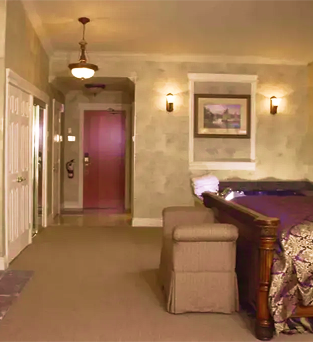
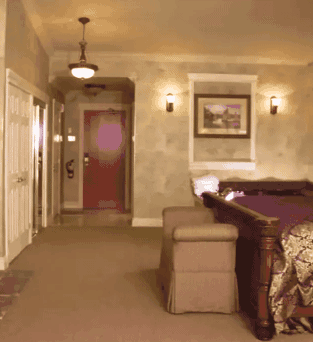
Added Compressed Images, Added Content
Added new compressed and resized images, added content to rooms-desk.html, styled header and list

diff --git a/rooms-desk.html b/rooms-desk.html
@@ -11,13 +11,89 @@
     <title>Welcome to The Couples Resort</title>
 </head>
 <body>
-    <h1 class="hidden">Welcome to The Couples Resort</h1>
+    <h1 class="hidden">Welcome to The Couples Resort Rooms Desktop Page</h1>
     <div id="desktop-outline">
     <header id="main-header-desk" class="desk-grid-con">
-        <nav id="main-nav" class="desk-col-span-full"></nav>
+        <div class="desk-col-span-3">
+       <img src="images/couples_resort_logo.svg" alt="couples resort logo">
+        </div>
+        <nav id="desk-nav" class="desk-col-start-4 desk-col-end-13">
+            <ul id="desk-nav-list">
+                <li><a href="#">Home</a></li>
+                <li><a href="rooms.html">Rooms</a></li>
+                <li><a href="#">Packages</a></li>
+                <li><a href="#">Dining</a></li>
+                <li><a href="#">Spa Activities</a></li>
+                <li><a href="#">Reservations</a></li>
+                <li><a href="#">FAQ</a></li>
+                <li><a href="#" id="booknow">Book Now</a></li>
+            </ul>
+        </nav>
     </header>
     
     <main>
+        <section id="desk-main-hero" class="desktop-grid-full">
+            <img src="images/cr_desk_hero.png" alt="Couples Resort Rooms Comparison Hero" class="desk-col-span-full hero-overlap">
+            <div class="desk-grid-con desk-col-span-full desk-hero-overlap">
+                <h2 class="desk-hero-img-h2"><span>Room Styles</span><br>All room Prices Include daily<br>5 Course Dinner and Breakfast</h2>
+            </div>
+        </section>
+
+        <section>
+            <div id="desk-hero-rooms" class="desk-grid-con">
+                <h2 class="desk-col-span-full">All Rooms Have:</h2>
+                </div>
+                <div class="desk-grid-con" id="room-features">
+                <ul class="desk-col-span-4">
+                    <li>Exceeds 5 Diamond/Star Room Standards.</li>
+                    <li>Private Out Door Hot Tubs</li>
+                    <li>Spacious Lakeside View</li>
+                    <li>Walkout Balcony or Deck</li>
+                    <li>King Size Beds</li>
+                    <li>Fibre-Optic Internet - Free WIFI</li>
+                    <li>Free - Netflix</li>
+                </ul>
+                <ul class="desk-col-span-4">
+                    <li>European Shower (2 or more heads)</li>
+                    <li>50 inch Television</li>
+                    <li>Wood Burning Fireplace</li>
+                    <li>Drink - Tap Water - Algonquin Park Aquifer</li>
+                    <li>2 bath robes</li>
+                    <li>Hair Dryer, cosmetic mirror</li>
+                    <li>Irons/Ironing Boards</li>
+		</ul>
+		        <ul class="desk-col-span-4">
+                    <li>2 Chaise Lounge Chairs - Spring, Summer, Fall</li>
+                    <li>2 person Whirlpool Bath Tub</li>
+                    <li>Safes</li>
+                    <li>Alarm Clock</li>
+                    <li>Keurig Coffee Maker with K-caps</li>
+                    <li>Bar Fridge</li>
+                    <li>Phones - Free long Distance</li>
+                </ul>
+                </div>
+        </section>
+
+        <section class="desk-grid-con" id="room-options-top-row">
+             <div class="desk-col-span-4" id="desk-chateaus">
+                <h3 class="hidden">Chateaus</h3>
+                <img src="images/cr_chateaus_desk.png" alt="Chateau Room">
+            </div>
+
+            <div class="desk-col-span-4" id="desk-villas">
+                <h3 class="hidden">Villas</h3>
+                <img src="images/cr_villas_desk.png">
+            </div>
+
+            <div class="desk-col-span-4" id="desk-chalets">
+                <h3 class="hidden">Chalets</h3>
+                <img src="images/cr_chalets_desk.png">
+            </div>
+
+        </section>
+
+            
+        
 
 
     </main>

diff --git a/rooms.html b/rooms.html
@@ -47,6 +47,7 @@
         <section>
             <div id="hero-room" class="grid-con">
                 <h2 class="col-span-full">All rooms have:</h2>
+            
                 <ul class="col-span-2">
                     <li>Exceeds 5 Diamond/Star Room Standards.</li>
                     <li>Private Out Door Hot Tubs</li>
@@ -76,31 +77,31 @@
 
             <div class="col-span-2" id="chateaus">
                 <h3 class="hidden">Chateaus</h3>
-                <img src="images/cr_mobile_chateaus.png" alt="Chateaus">
+                <img src="images/cr_mobile_chateaus.png" alt="Chateau Room">
             </div>
             <div class="col-span-2" id="villas">
                 <h3 class="hidden">Villas</h3>
-                <img src="images/cr_mobile_villas.png" alt="Villas">
+                <img src="images/cr_mobile_villas.png" alt="Villa Room">
             </div>
             <div class="col-span-2" id="chalets">
                 <h3 class="hidden">Chalets</h3>
-                <img src="images/cr_mobile_chalets.png" alt="Chalets">
+                <img src="images/cr_mobile_chalets.png" alt="Chalet Room">
             </div>
              <div class="col-span-2" id="masters">
                 <h3 class="hidden">Masters</h3>
-                <img src="images/cr_mobile_masters.png" alt="Masters">
+                <img src="images/cr_mobile_masters.png" alt="Master Room">
             </div>
              <div class="col-span-2" id="exotics">
                 <h3 class="hidden">Exotics</h3>
-                <img src="images/cr_mobile_exotics.png" alt="Exotics">
+                <img src="images/cr_mobile_exotics.png" alt="Exotic Room">
             </div>
             <div class="col-span-2" id="juniors">
                 <h3 class="hidden">Juniors</h3>
-                <img src="images/cr_mobile_juniors.png" alt="Juniors">
+                <img src="images/cr_mobile_juniors.png" alt="Juniors Room">
             </div>
             <div class="col-start-2 col-end-4" id="duplexes">
                 <h3 class="hidden">Duplexes</h3>
-                <img src="images/cr_mobile_duplexes.png" alt="Duplexes">
+                <img src="images/cr_mobile_duplexes.png" alt="Duplexes Outside">
             </div>
             </div>
         </section>

diff --git a/css/main.css b/css/main.css
@@ -13,6 +13,7 @@
     9. Rooms Page
     10. Spa Page
     11. FAQ Page
+    12. Desktop Rooms Page
 
 */
 
@@ -43,6 +44,12 @@
    margin: 20px auto 20px auto;
    border-radius: 10px;
 } 
+
+#desktop-outline {
+outline: 20px solid #333;
+width: 1200px;
+margin: 20px auto 20px auto;
+border-radius: 10px; }
 
 a {
     text-decoration: none;
@@ -763,3 +770,79 @@ input[type="checkbox"]:checked + label::after {
    content: '✅'
 }
   
+   /* --- 12. Rooms Desktop Page --- */
+
+#main-header-desk img{
+   margin-left: 40px;
+   margin-top: 20px;
+   margin-bottom: 20px;
+}
+
+#desk-nav ul {
+   list-style: none;
+   margin: 0;
+   padding: 0;
+   display: flex;
+   gap: 30px;
+}
+
+#desk-nav li {
+  display: inline;
+  font-size: 17px;
+  text-align: center;
+  margin-top: 45px;
+}
+
+#desk-nav ul li #booknow {
+   color: white;
+   background-color:#9a2018;
+   padding: 47px 47px;
+   margin-right: 0px;
+   border-right: 0px;
+   margin-bottom: 0px;
+   font-style: italic;
+   transition:all 1s ease;
+   cursor: pointer;
+}
+
+#desk-nav ul li #booknow:hover {
+   box-shadow: inset 0px -120px 0px 0px rgb(196, 28, 28);
+}
+
+#desk-nav li:last-child {
+   margin-right: 0px;
+}
+
+#main-header-desk div {
+   padding-right: 30px;
+   border-right:rgb(196, 28, 28) solid 2px;
+   margin-top: 20px;
+   margin-bottom: 20px;
+}
+
+.desk-hero-overlap {
+   grid-row: 1/1;
+}
+
+.desk-hero-img-h2 {
+   background: rgb(255, 255, 255);
+   padding: 15px 15px;
+   font-size: 14px;
+   grid-column: 1/4;
+   grid-row: 2/3;
+   align-self: end;
+}
+
+ .desk-hero-img-h2 span {
+   color: #9a2018;
+   font-size: 12px;
+   margin-bottom: 15px;
+   line-height: 20px;
+ }
+
+ #desk-hero-rooms h2:first-of-type {
+   border-top: solid 3px #CF6666;
+   margin-top: 15px;
+   padding-top: 20px;
+ } 
+
